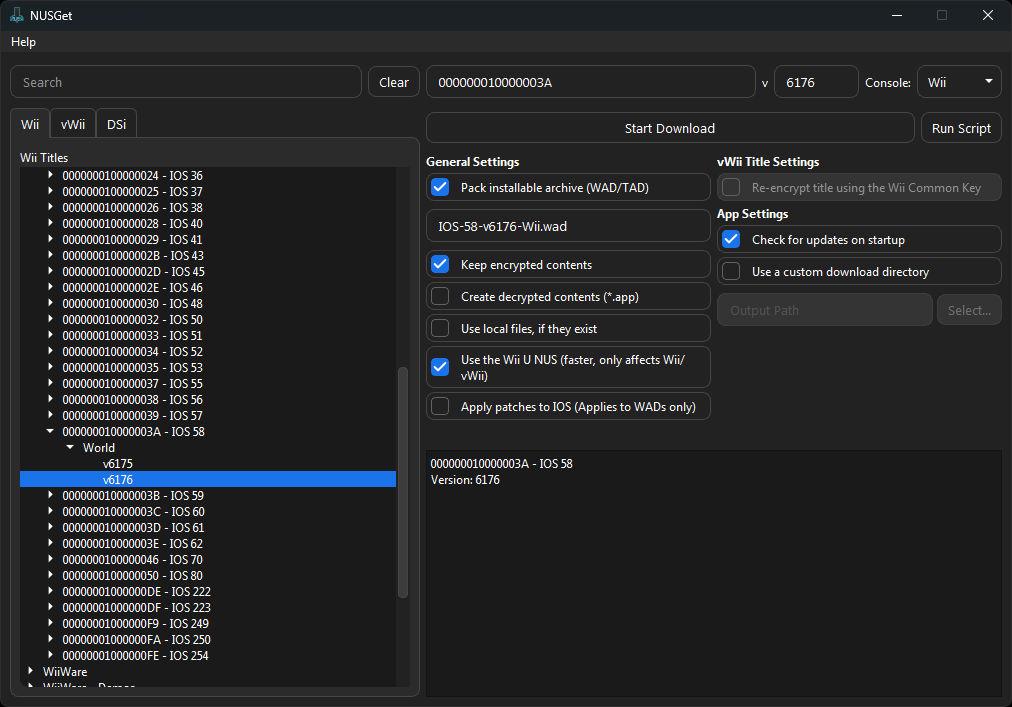
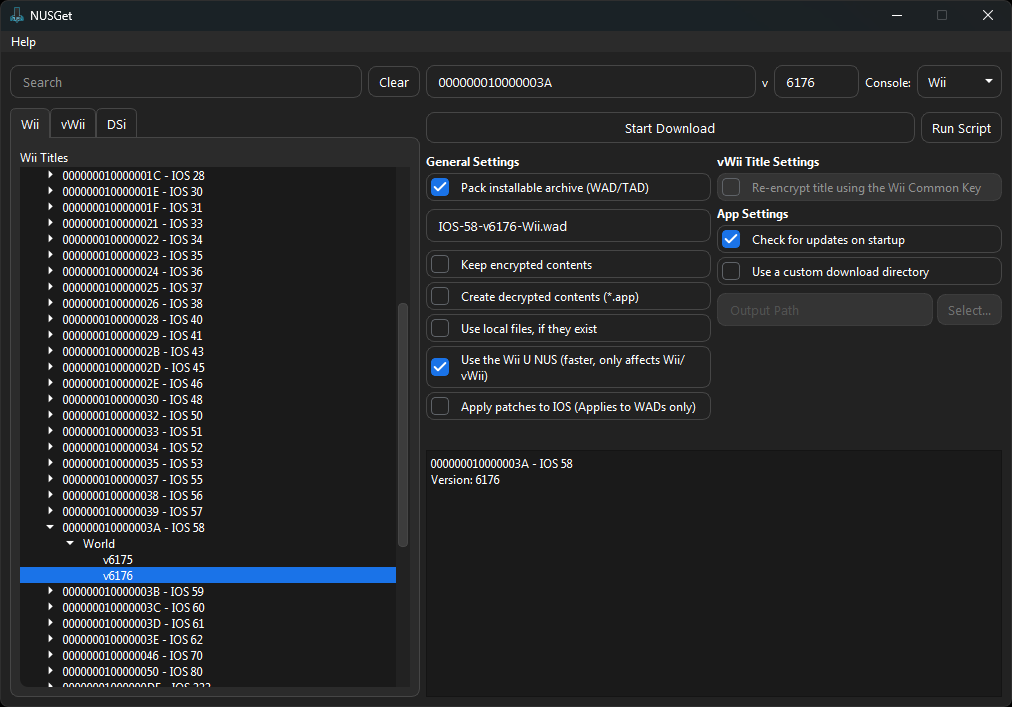
Further refine instructions for simplicity

diff --git a/docs/update.md b/docs/update.md
@@ -24,16 +24,16 @@ It is much safer to use [ModMii](modmii) (Windows only) to update your Wii to 4.
 
 1. Download the archive corresponding to your operating system. For Windows users, you should get `NUSGet-Windows-x86_64-onefile-bin.zip`.
 1. Unzip the archive and run NUSGet.
-1. Go to `System` > `0000000100000002 - System Menu` > `Your Region` and then select the latest 4.3 version of the menu (e.x. `v513 4.3U` for USA). Keep the options as-is and press `Start Download`.
+1. Go to `System` > `0000000100000002 - System Menu` > `Your Region` and then select the latest 4.3 version of the menu (e.x. `v513 4.3U` for USA). Uncheck `Keep encrypted contents` and press `Start Download`.
 
     ![](/images/desktop-apps/nusget/nusget-wiimenu-dl-alt.png)
-1. Go to `System` > `000000010000003A - IOS 58` > `Latest Version`. Keep the options as-is and press `Start Download`.
+1. Go to `System` > `000000010000003A - IOS 58` > `Latest Version`. Uncheck `Keep encrypted contents` and press `Start Download`.
 
     ![](/images/desktop-apps/nusget/nusget-ios58-dl.png)
-1. Go to `System` > `0000000100000050 - IOS 80` > `Latest Version`. Keep the options as-is and press `Start Download`.
+1. Go to `System` > `0000000100000050 - IOS 80` > `Latest Version`. Uncheck `Keep encrypted contents` and press `Start Download`.
 
     ![](/images/desktop-apps/nusget/nusget-ios80-dl.png)
-1. When you have finished downloading the above, locate a folder named `NUSGet Downloads` in the same directory as `NUSGet.exe`. This contains your WAD files.
+1. When you have finished downloading the above IOS, locate a folder named `NUSGet Downloads` in the same directory as your NUSGet executable. This contains your WAD files.
 
     ![](/images/desktop-apps/nusget/nusget-folder.png)
 1. Go into the folders corresponding to the title numbers for the above, and locate the singular WAD file in each. You will need to copy these to a folder called `wad` on your SD card or USB drive.

diff --git a/docs/cios.md b/docs/cios.md
@@ -51,11 +51,11 @@ If you are able to connect your Wii to the internet, you may skip to [Section II
 1. Power off your console, and insert your SD card or USB drive into your computer.
 1. On your computer, download [NUSGet](https://github.com/NinjaCheetah/NUSGet/releases/latest/), choosing the archive corresponding to your operating system. For Windows users, you should get `NUSGet-Windows-x86_64-onefile-bin.zip`.
 1. Unzip the archive and run NUSGet.
-1. Navigate to `IOS` > `IOS 38` > `World` and select `v4123`. Keep the options as-is and then click `Start Download`.
+1. Navigate to `IOS` > `IOS 38` > `World` and select `v4123`. Uncheck `Keep encrypted contents` and then click `Start Download`.
 
     ![](/images/desktop-apps/nusget/nusget-4123.png)
 1. Repeat the above step for `IOS 56 (v5661)`, `IOS 57 (v5918)` and `IOS 58 (v6175)`.
-1. When you have finished downloading the above IOS, locate a folder named `NUSGet Downloads` in the same directory as `NUSGet.exe`. This contains your WAD files.
+1. When you have finished downloading the above IOS, locate a folder named `NUSGet Downloads` in the same directory as your NUSGet executable. This contains your WAD files.
 
     ![](/images/desktop-apps/nusget/nusget-folder.png)
 1. Open the `NUSGet Downloads` folder and enter each of the four directories, locating a `IOS-XX-vXXXX-Wii.wad` file.

diff --git a/docs/themes.md b/docs/themes.md
@@ -96,7 +96,7 @@ Before proceeding, it helps to know the difference between .MYM and .CSM as file
 1. Check the `Create decrypted contents (*.app)` box, and then press `Start Download`.
 
     ![](/images/desktop-apps/nusget/nusget-vwiimenu-dl.png)
-1. Downloads are output to a `NUSGet Downloads` folder in the same directory as `NUSGet.exe`. Open this folder, and locate the `0000000700000002` folder inside it.
+1. Downloads are output to a `NUSGet Downloads` folder in the same directory as your NUSGet executable. Open this folder, and locate the `0000000700000002` folder inside it.
 
     ![](/images/desktop-apps/nusget/nusget-folder.png)
 1. Find the .app file that corresponds to your Wii U's region in the table below:
